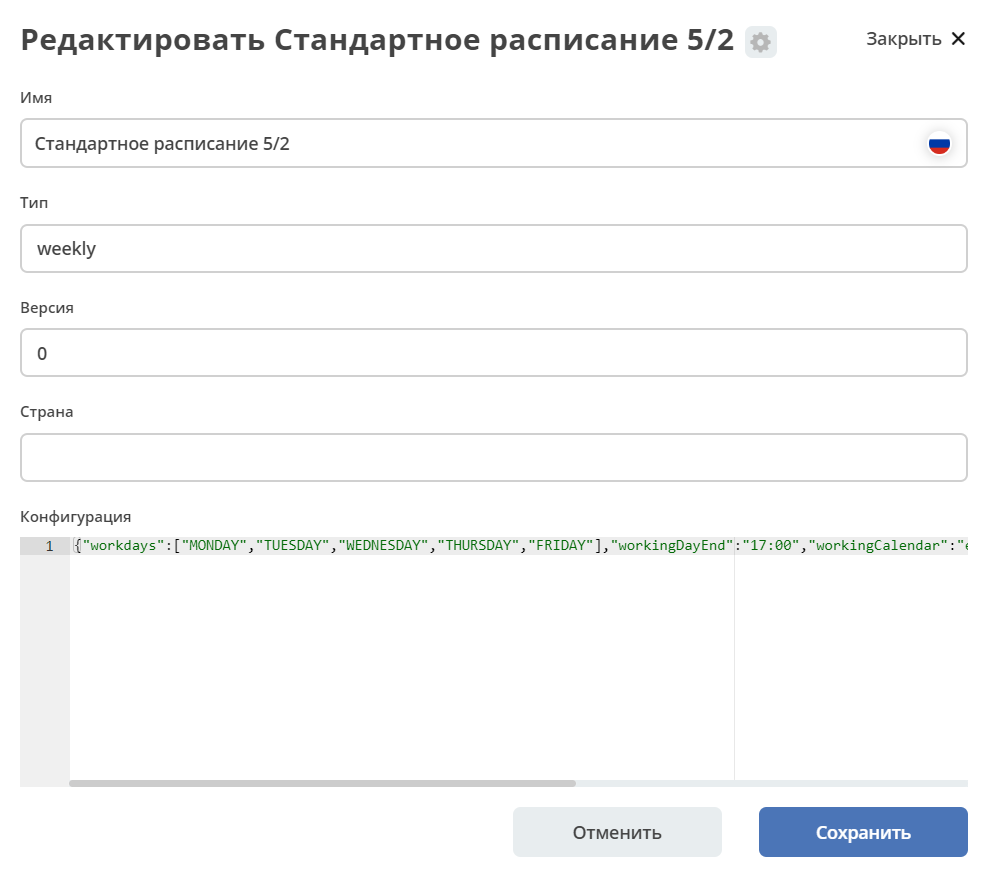
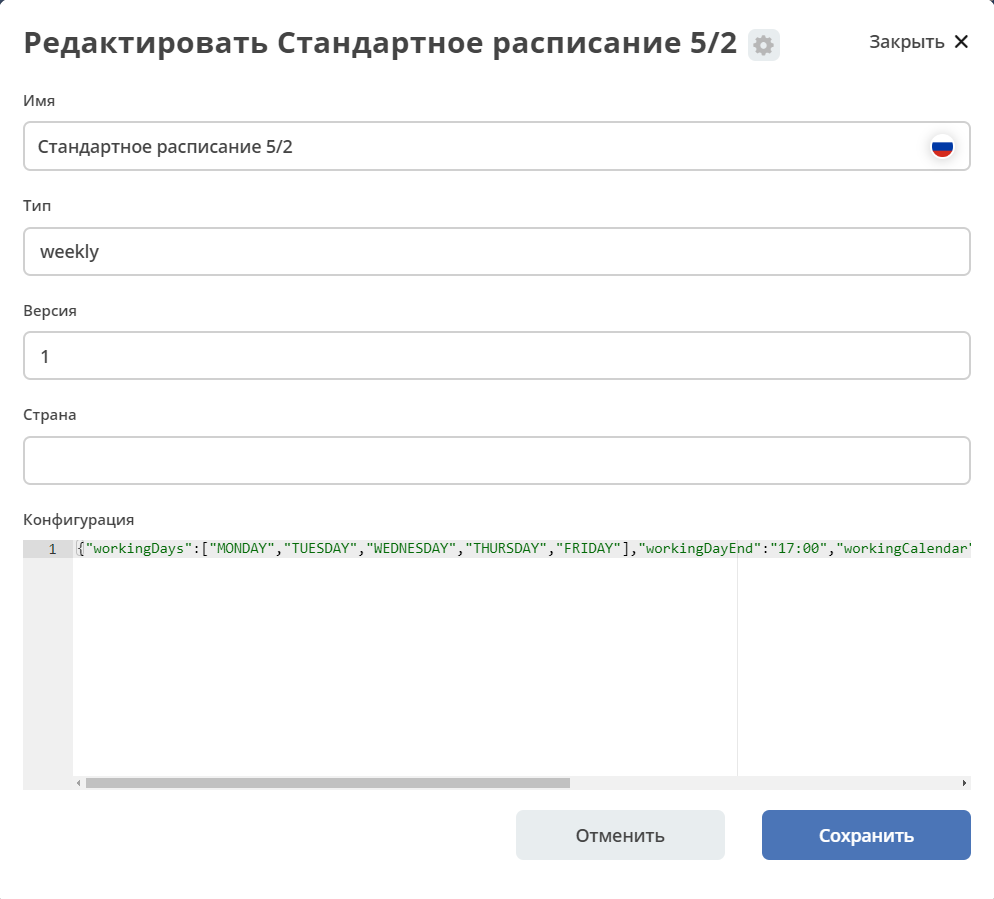
DocLib, Working schedule update

diff --git a/docs/introduction/modules.rst b/docs/introduction/modules.rst
@@ -16,22 +16,9 @@
         - Описание
         - Community
         - Enterprise
-      * - :ref:`Совещания<ecos-meetings>`
-        - Автоматизация процесса планирования и проведения совещаний.
-        - |
 
-           .. image:: _static/modules/green.png
-              :width: 30
-              :align: center 
-
-        - |
-
-           .. image:: _static/modules/green.png
-              :width: 30
-              :align: center 
-
-      * - :ref:`Пропуска<ecos-order-pass>`
-        - Автоматизация процесса принятия решения по выдаче пропуска.
+      * - :ref:`ОРД <ecos-order-ORD>`
+        - Автоматизация процесса работы с организационно-распорядительными документами: приказами, распоряжениями, нормативными актами, служебными записками и т.д.
         - |
 
            .. image:: _static/modules/green.png
@@ -45,7 +32,7 @@
               :align: center 
 
       * - :ref:`Поручения<ecos-assignments>`
-        - Постановка поручений на исполнение, и проверки результатов их исполнения при необходимости. 
+        - Постановка поручений на исполнение и проверки результатов их исполнения при необходимости. 
         - |
 
            .. image:: _static/modules/green.png
@@ -59,7 +46,7 @@
               :align: center 
 
       * - :ref:`Договоры<ecos-contract>`
-        - Автоматизация процеса учета и согласования бумажных договоров, и документов, связанных с договорами.
+        - Автоматизация процесса учета и согласования бумажных договоров, и документов, связанных с договорами.
         - |
 
            .. image:: _static/modules/green.png
@@ -100,8 +87,22 @@
               :width: 30
               :align: center 
 
-      * - :ref:`ОРД <ecos-order-ORD>`
-        - автоматизации процесса работы с организационно-распорядительными документами: приказами, распоряжениями, нормативными актами, служебными записками и т.д.
+      * - :ref:`CRM<ecos-crm>`
+        - Поддержка процесса маркетинга, продаж и обслуживания клиентов компании
+        - |
+
+           .. image:: _static/modules/green.png
+              :width: 30
+              :align: center 
+
+        - |
+
+           .. image:: _static/modules/green.png
+              :width: 30
+              :align: center  
+
+      * - :ref:`Совещания<ecos-meetings>`
+        - Автоматизация процесса планирования и проведения совещаний.
         - |
 
            .. image:: _static/modules/green.png
@@ -113,9 +114,23 @@
            .. image:: _static/modules/green.png
               :width: 30
               :align: center 
-
+ 
       * - :ref:`Офферы<ecos-offer>`
         - Автоматизация процесса подбора персонала по заявкам подразделений.
+        - |
+
+           .. image:: _static/modules/green.png
+              :width: 30
+              :align: center 
+
+        - |
+
+           .. image:: _static/modules/green.png
+              :width: 30
+              :align: center 
+
+      * - :ref:`Пропуска<ecos-order-pass>`
+        - Автоматизация процесса принятия решения по выдаче пропуска.
         - |
 
            .. image:: _static/modules/green.png
@@ -142,8 +157,8 @@
               :width: 30
               :align: center 
 
-      * - :ref:`CRM<ecos-crm>`
-        - Поддержка процесса маркетинга, продаж и обслуживания клиентов компании
+      * - :ref:`Журнал работ<ecos-worklog>`
+        - Учет времени, затраченного сотрудником на работу по конкретной задаче, документу непосредственно из карточки задачи, документа.
         - |
 
            .. image:: _static/modules/green.png
@@ -155,6 +170,35 @@
            .. image:: _static/modules/green.png
               :width: 30
               :align: center 
+
+      * - :ref:`Портал технической поддержки<portal_sd>`
+        - Веб-интерфейсу для внешних заказчиков для регистрации заявок, контроля их выполнения, обмена комментариями и файлами.
+        - |
+
+           .. image:: _static/modules/red.png
+              :width: 30
+              :align: center 
+
+        - |
+
+           .. image:: _static/modules/green.png
+              :width: 30
+              :align: center 
+
+      * - :ref:`Релизы<ecos-releases>`
+        - Систематизация этапов работ, связанных с релизами программного обеспечения или продуктов компании, ее подразделений.
+        - |
+
+           .. image:: _static/modules/green.png
+              :width: 30
+              :align: center 
+
+        - |
+
+           .. image:: _static/modules/green.png
+              :width: 30
+              :align: center 
+
 
 Микросервисы
 -------------

diff --git a/docs/settings_kb/interface/journals/document_library.rst b/docs/settings_kb/interface/journals/document_library.rst
@@ -38,7 +38,7 @@
 4.	Загрузка файлов осуществляется по кнопке **+** и используя drag&drop. Файлы добавляться как по одному, так и группой.
 5.	Перемещение файлов из каталога в каталог осуществляется с использованием drag&drop. Файлы могут быть перемещены как по одному, так и группой.
 6.	Над журналом размещено название текущей раскрытой папки **(4)**, чуть ниже - полный путь к открытой папке **(3)**.
-7.	Выделение документов и папок работает аналогично выбору в файловых менеджерах с учетом кнопок Ctrl, Shift и ЛКМ:
+7.	Выделение документов и папок работает аналогично выбору в файловых менеджерах с учетом кнопок Ctrl, Shift и левой кнопки мыши:
 
 	-	**левая кнопка мыши и Shift** приводит к выделению диапазона файлов и папок;
 	-	**левая кнопка мыши и Ctrl** добавляет выделение, не сбрасывая уже выделенные файлы;

diff --git a/docs/introduction/ecos_modules/releases.rst b/docs/introduction/ecos_modules/releases.rst
@@ -3,9 +3,9 @@
 
 .. _ecos-releases:
 
-Модуль позволяет компании фиксировать и учитывать все этапы, связанные с релизами программного обеспечения или продуктов компаний или подразделений. 
+Модуль позволяет компании фиксировать и учитывать все этапы, связанные с релизами программного обеспечения или продуктов компании, ее подразделений. 
 
-Модуль обеспечивает прозрачность и систематизацию процесса релизов, позволяя компании более эффективно управлять и контролировать этапы разработки и внедрения новых продуктов.
+Модуль обеспечивает прозрачность и систематизацию процесса релиза, позволяя компании более эффективно управлять и контролировать этапы разработки и внедрения новых продуктов.
 
 .. contents::
 	:depth: 2

diff --git a/docs/introduction/ecos_modules/worklog.rst b/docs/introduction/ecos_modules/worklog.rst
@@ -1,6 +1,8 @@
 Журнал работ
 =============
 
+.. _ecos-worklog:
+
 В системе разработан функционал, позволяющий вести учет времени, затраченного сотрудником на работу по конкретной задаче, документу непосредственно из карточки задачи, документа.
 
 Вся введенная информация о введенном затраченном времени доступна в журнале **Учет времени**.

diff --git a/docs/introduction/functions/work_calendar.rst b/docs/introduction/functions/work_calendar.rst
@@ -130,7 +130,7 @@
 .. code-block::
 
   {
-      "workdays": [
+      "workingDays": [
         "MONDAY",
         "TUESDAY",
         "WEDNESDAY",
@@ -148,7 +148,7 @@
 .. code-block:: 
 
   {
-      "workdays": [
+      "workingDays": [
         "MONDAY",
         "TUESDAY",
         "WEDNESDAY",
@@ -167,7 +167,7 @@
 .. list-table:: 
       :widths: 10 10
 
-      * - **workdays**
+      * - **workingDays**
         - Список рабочих дней
       * - **workingDayEnd**
         - Завершение рабочего дня

diff --git a/docs/introduction/ecos_modules/portal_sd.rst b/docs/introduction/ecos_modules/portal_sd.rst
@@ -11,7 +11,7 @@
    :depth: 3
 
 
-Для внешних пользователей доступен портал технической поддержки, на котором доступно:
+Для внешних пользователей может быть настроен портал технической поддержки, на котором доступно:
 
        * создание заявок,
        * отслеживание статуса текущих заявок,

diff --git a/docs/introduction/ecos_modules/poa.rst b/docs/introduction/ecos_modules/poa.rst
@@ -895,7 +895,7 @@
     :width: 250
     :align: center 
 
-- **Скачать в PDF**- загрузить сгенерированную доверенность в формате pdf 
+- **Скачать в PDF** - загрузить сгенерированную доверенность в формате pdf 
 
 Для машиночитаемой доверенности:
 

diff --git a/docs/general/business_calendar.rst b/docs/general/business_calendar.rst
@@ -171,7 +171,7 @@ Cущность нужна для формирования списка дат, 
       * - workingDayTimeZone
         - ZoneId
         - Часовой пояс рабочего дня
-      * - workdays
+      * - workingDays
         - List<DayOfWeek>
         - Список рабочих дней
       * - workingCalendar
